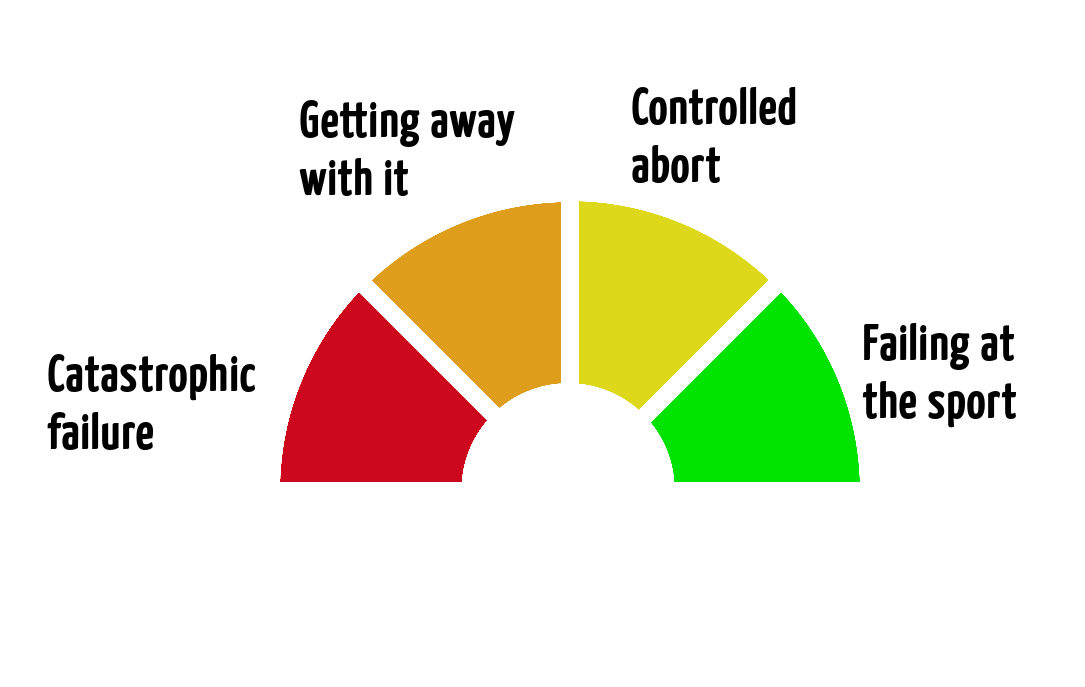
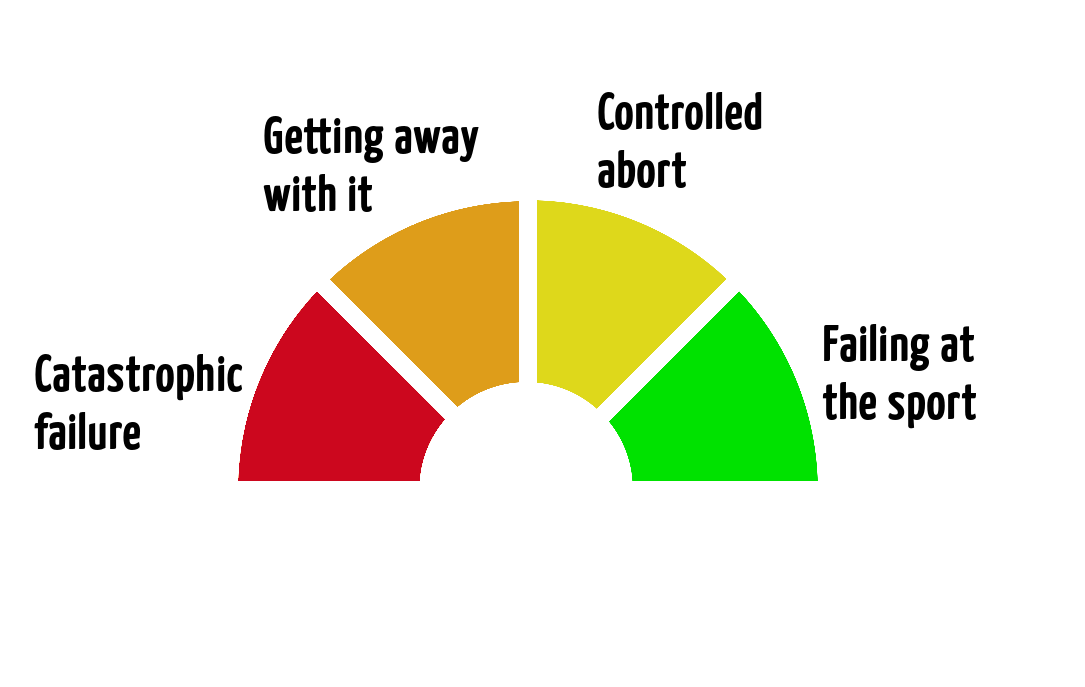
Added background image for failure

Changed region(s): [[0.0304, 0.1223, 0.9429, 0.7031], [0.2433, 0.1528, 0.4866, 0.3057]]

diff --git a/presentations/die-freude-am-scheitern/theme.css b/presentations/die-freude-am-scheitern/theme.css
@@ -189,7 +189,8 @@ vertical-align: middle;
     opacity: 0.75;
     position: absolute;
     left: 20px;
-    bottom: 12px;
+    bottom: 36px;
+    color: #111;
 }
 
 .credit a {

diff --git a/presentations/die-freude-am-scheitern/die-freude-am-scheitern.md b/presentations/die-freude-am-scheitern/die-freude-am-scheitern.md
@@ -34,7 +34,7 @@ background-image: url(images/celebrate_success.jpg)
 
 ???
 
-Erfolge sind cool und geben uns mut
+Erfolge sind cool und geben uns Mut
 
 * Oben auf dem Gipfel stehen, wissend, dass man toughes geleistet hat. Tief einatmen, aussicht geniessen
 * Software ausgeliefert, wissend dass man da was nützliches gebaut hat. Tief einatmen, Kundenfeedback geniessen
@@ -46,9 +46,12 @@ Erfolge sind cool und geben uns mut
 # Schön wenn es klappt - Der Alltag sieht oft anders aus!
 
 ---
-
+background-image: url(images/Falling.jpeg)
 # Fehlschläge erleben
 
+.credit[
+  https://www.stocksy.com/1198104/rock-climber-falling-whilst-climbing-a-mountain-cliff
+]
 ???
 
 # Der Alltag ist begleitet von Scheitern mal klein 
@@ -77,17 +80,19 @@ Klettern gibt Einblicke in wie wir scheitern. Das Scheitern ist dort oft unmitte
 * Katastrophaler Fehlschlag - Glück hat nicht gereicht, Konsequenzen sind potentiell Schwerwiegend
 
 ### Die Grenzen zwischen den Sektoren sind unscharf und individuell
+- Können und Erfahrung
 
 ---
+background-image: url(images/Falling.jpeg)
+# Zu weit gehen
 
-# Wo macht es freude
-
-** Bild mit Zeiger zwischen "Davonkommen und kontrolliertem Abbruch"
+![](images/dangermeter_lightened.png)
 
 ???
 
 * Tägliches scheitern darf nicht frustrieren - Machs nochmal werde besser
 * Katastrophal wollen wir nicht
+* Kontrollierter Abort, da lernen wir viel, wissen aber nicht wo unsere Grenzen sind 
 
 * Die Magie geschieht zwischen Gelb un organge 
 
@@ -112,10 +117,23 @@ Schritt für Schritt wird die Lösung erarbeitet
 Bis man wieder im grünen/gelben ist
 
 ---
-
+background-image: url(images/retro.jpg)
 # Runterkommen - Retrospektive
 
-Man diskutiert und analysiert
+
+.credit[
+  http://www.fornohuette.ch 
+]
+
+-- 
+
+Diskutieren, ehrlich reflektieren, post mortem
+- daran wachsen, merken wo man noch aufzuholen hat
+
+--- 
+# Die Freude am Scheitern
+
+
 
 ---
 
